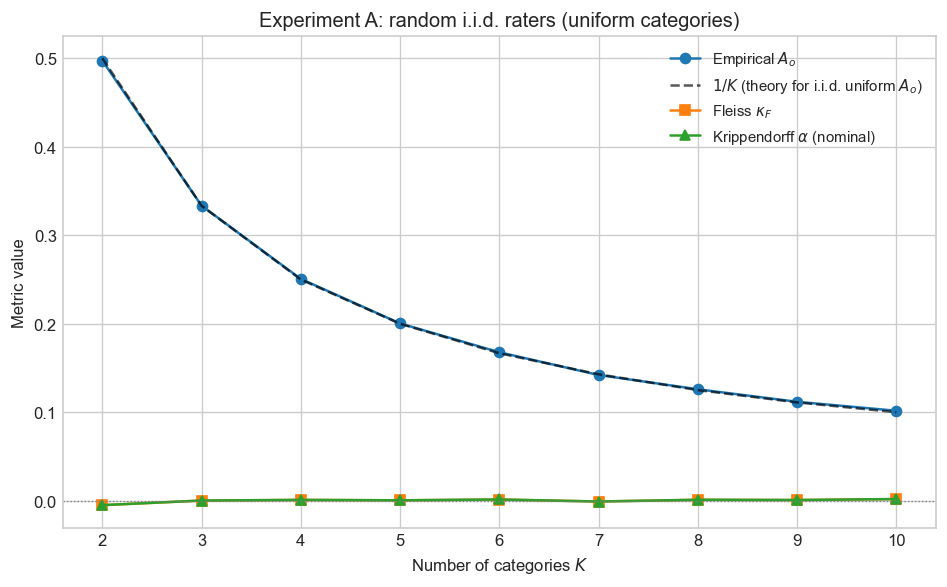
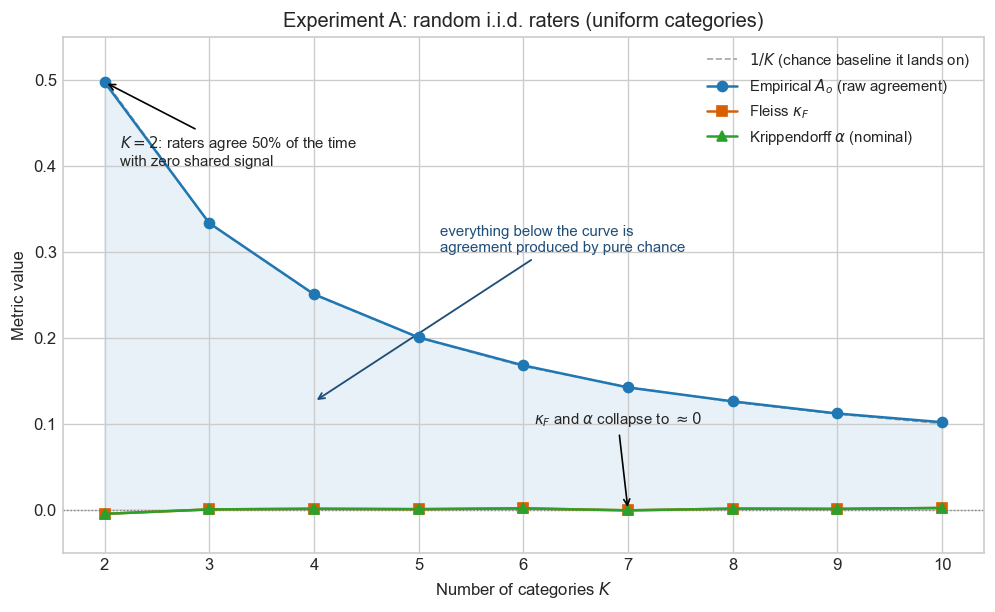
fix(figures): make Experiment A and D plots tell their story
Exp A shades the chance-agreement region and demotes 1/K to a reference;
Exp D adds a complete-case-deletion curve and a retained-items axis so the
alpha-vs-Fleiss contrast under MCAR missingness is visible.

diff --git a/scripts/experiment_d_missing.py b/scripts/experiment_d_missing.py
@@ -1,5 +1,15 @@
 #!/usr/bin/env python3
-"""Experiment D — missing data: Fleiss vs Krippendorff (Phase 4)."""
+"""Experiment D — missing data: Fleiss vs Krippendorff (Phase 4).
+
+Three curves make the contrast explicit under MCAR missingness:
+
+* Krippendorff ``alpha`` — uses every pairable judgment, stays stable.
+* Fleiss ``kappa`` on the **full** matrix — defined only at 0% missing, then NaN.
+* Fleiss ``kappa`` with **complete-case deletion** — the naive workaround: drop any
+  item with a missing cell, then run Fleiss on what remains. Under MCAR the mean is
+  ~unbiased, but the retained sample collapses like ``(1 - rate) ** n_raters`` and the
+  error bars blow up. A twin axis shows the shrinking share of items kept.
+"""
 
 from __future__ import annotations
 
@@ -24,6 +34,20 @@ BASE_SEED = 800
 MISSING_RATES = [0.0, 0.10, 0.20, 0.30, 0.40, 0.50]
 N_SEEDS = 10  # number of seeds for confidence intervals
 
+ALPHA_COLOR = "#1f77b4"
+FLEISS_COLOR = "#d95f02"
+DELETION_COLOR = "#2ca02c"
+RETAINED_COLOR = "#7f7f7f"
+
+
+def fleiss_complete_case(arr: np.ndarray) -> tuple[float, float]:
+    """Fleiss on complete rows only. Returns (kappa, retained_fraction)."""
+    complete = arr[~np.isnan(arr).any(axis=1)]
+    retained = complete.shape[0] / arr.shape[0]
+    if complete.shape[0] < 2:
+        return float("nan"), retained
+    return fleiss_kappa_or_nan(pd.DataFrame(complete)), retained
+
 
 def main() -> None:
     apply_plot_style()
@@ -39,9 +63,10 @@ def main() -> None:
     )
     base = gen.generate().to_numpy(dtype=float)
 
-    # Collect alpha across multiple seeds per missing rate
     alpha_runs = np.zeros((len(MISSING_RATES), N_SEEDS))
-    fleiss_vals: list[float] = []
+    deletion_runs = np.full((len(MISSING_RATES), N_SEEDS), np.nan)
+    retained_runs = np.zeros((len(MISSING_RATES), N_SEEDS))
+    fleiss_full: list[float] = []
 
     for idx, rate in enumerate(MISSING_RATES):
         for s in range(N_SEEDS):
@@ -52,52 +77,129 @@ def main() -> None:
                 arr[miss] = np.nan
             df = pd.DataFrame(arr)
             alpha_runs[idx, s] = krippendorff_alpha(df, level_of_measurement="nominal")
-        # Fleiss: use first seed only (it's NaN for any missing rate > 0 anyway)
+            deletion_runs[idx, s], retained_runs[idx, s] = fleiss_complete_case(arr)
+        # Fleiss on the full matrix: NaN as soon as any cell is missing.
         rng0 = np.random.default_rng(BASE_SEED + 11 + idx * 97)
         arr0 = base.copy()
         if rate > 0:
-            miss0 = rng0.random(arr0.shape) < rate
-            arr0[miss0] = np.nan
-        fleiss_vals.append(fleiss_kappa_or_nan(pd.DataFrame(arr0)))
+            arr0[rng0.random(arr0.shape) < rate] = np.nan
+        fleiss_full.append(fleiss_kappa_or_nan(pd.DataFrame(arr0)))
 
     alpha_mean = alpha_runs.mean(axis=1)
     alpha_std = alpha_runs.std(axis=1)
+    deletion_mean = np.nanmean(deletion_runs, axis=1)
+    deletion_std = np.nanstd(deletion_runs, axis=1)
+    retained_mean = retained_runs.mean(axis=1)
 
-    fig, ax = plt.subplots(figsize=(8, 5), dpi=120)
     x_pct = [int(round(100 * r)) for r in MISSING_RATES]
+    fig, ax = plt.subplots(figsize=(8.4, 5.2), dpi=120)
+
+    # --- alpha: the stable hero, uses all pairable data --------------------
     ax.errorbar(
         x_pct,
         alpha_mean,
         yerr=alpha_std,
         fmt="o-",
-        color="#1f77b4",
+        color=ALPHA_COLOR,
         capsize=4,
         capthick=1.5,
-        label=r"Krippendorff $\alpha$ (mean $\pm$ 1 SD, 10 seeds)",
+        zorder=5,
+        label=r"Krippendorff $\alpha$ — all pairable data (mean $\pm$ 1 SD)",
     )
-    # Fleiss: plot valid points, leave gaps for nan
-    kf_y = np.array(fleiss_vals, dtype=float)
-    ax.plot(
+
+    # --- Fleiss, complete-case deletion: unbiased but exploding variance ---
+    ax.errorbar(
         x_pct,
-        kf_y,
-        "s--",
-        color="#d95f02",
-        label=r"Fleiss $\kappa_F$ (complete matrix only; else NaN)",
+        deletion_mean,
+        yerr=deletion_std,
+        fmt="^--",
+        color=DELETION_COLOR,
+        capsize=4,
+        capthick=1.5,
+        zorder=4,
+        label=r"Fleiss $\kappa_F$ — complete-case deletion (mean $\pm$ 1 SD)",
     )
+
+    # --- Fleiss on the full matrix: one valid point, then undefined --------
+    ax.plot(
+        x_pct[0],
+        fleiss_full[0],
+        "s",
+        color=FLEISS_COLOR,
+        markersize=9,
+        zorder=6,
+        label=r"Fleiss $\kappa_F$ — full matrix (defined only at 0% missing)",
+    )
+    y_undef = 0.05
+    ax.scatter(
+        x_pct[1:],
+        [y_undef] * (len(x_pct) - 1),
+        marker="x",
+        s=70,
+        color=FLEISS_COLOR,
+        linewidths=2,
+        zorder=6,
+    )
+    ax.annotate(
+        "Fleiss on the full matrix is undefined\nas soon as any cell is missing (NaN)",
+        xy=(x_pct[1], y_undef),
+        xytext=(16, 0.235),
+        fontsize=8.5,
+        color=FLEISS_COLOR,
+        arrowprops=dict(arrowstyle="->", color=FLEISS_COLOR, lw=1.1),
+    )
+
     ax.set_xlabel("MCAR missing rate (% of cells)")
     ax.set_ylabel("Coefficient value")
     ax.set_title("Experiment D: robustness to missing annotations")
-    ax.legend(loc="best", fontsize=9)
     ax.set_xticks(x_pct)
-    ax.set_ylim(0.0, max(alpha_mean) + 0.15)
+    ax.set_ylim(0.0, 0.8)
+
+    # --- twin axis: share of items retained by complete-case deletion ------
+    ax2 = ax.twinx()
+    ax2.plot(
+        x_pct,
+        100 * retained_mean,
+        ":",
+        color=RETAINED_COLOR,
+        linewidth=1.6,
+        label="Items retained by deletion (right axis)",
+    )
+    ax2.set_ylabel("% of items kept (complete-case)", color=RETAINED_COLOR)
+    ax2.tick_params(axis="y", labelcolor=RETAINED_COLOR)
+    ax2.set_ylim(0, 105)
+    ax2.grid(False)
+    ax2.annotate(
+        f"only {100 * retained_mean[-1]:.0f}% of items survive at 50% missing",
+        xy=(x_pct[-1], 100 * retained_mean[-1]),
+        xytext=(-205, 40),
+        textcoords="offset points",
+        fontsize=8.5,
+        color=RETAINED_COLOR,
+        arrowprops=dict(arrowstyle="->", color=RETAINED_COLOR, lw=1.1),
+    )
+
+    # merged legend, parked in the empty upper band (curves sit near 0.60)
+    lines1, labels1 = ax.get_legend_handles_labels()
+    lines2, labels2 = ax2.get_legend_handles_labels()
+    ax.legend(
+        lines1 + lines2, labels1 + labels2, loc="upper center", fontsize=8.0,
+        framealpha=0.92,
+    )
+
     fig.tight_layout()
     out = ROOT / "figures" / "exp_d_missing_robustness.png"
     fig.savefig(out, bbox_inches="tight")
     plt.close(fig)
     print(f"Wrote {out}")
-    for idx, (r, k) in enumerate(zip(MISSING_RATES, fleiss_vals, strict=True)):
-        ks = "nan" if np.isnan(k) else f"{k:.4f}"
-        print(f"  missing={r:.0%}: alpha={alpha_mean[idx]:.4f} (±{alpha_std[idx]:.4f}), fleiss={ks}")
+    for idx, r in enumerate(MISSING_RATES):
+        ks = "nan" if np.isnan(fleiss_full[idx]) else f"{fleiss_full[idx]:.4f}"
+        print(
+            f"  missing={r:.0%}: alpha={alpha_mean[idx]:.4f} (±{alpha_std[idx]:.4f}), "
+            f"fleiss_full={ks}, "
+            f"fleiss_deletion={deletion_mean[idx]:.4f} (±{deletion_std[idx]:.4f}), "
+            f"retained={retained_mean[idx]:.1%}"
+        )
 
 
 if __name__ == "__main__":

diff --git a/scripts/experiment_a_random.py b/scripts/experiment_a_random.py
@@ -59,17 +59,56 @@ def main() -> None:
     if abs(alpha_list[i3]) >= TOL:
         raise SystemExit(f"alpha for K=3 out of tolerance: {alpha_list[i3]}")
 
-    fig, ax = plt.subplots(figsize=(8, 5), dpi=120)
-    ax.plot(ks, ao_list, "o-", label=r"Empirical $A_o$")
-    ax.plot(ks, one_over_k, "k--", alpha=0.65, label=r"$1/K$ (theory for i.i.d. uniform $A_o$)")
-    ax.plot(ks, kf_list, "s-", label=r"Fleiss $\kappa_F$")
-    ax.plot(ks, alpha_list, "^-", label=r"Krippendorff $\alpha$ (nominal)")
+    fig, ax = plt.subplots(figsize=(8.4, 5.2), dpi=120)
+
+    # Shade the whole story: the gap between raw agreement and zero is agreement
+    # that is *pure chance* — no shared signal produced any of it.
+    ax.fill_between(
+        ks, 0.0, ao_list, color="#1f77b4", alpha=0.10, zorder=0,
+    )
+    ax.annotate(
+        "everything below the curve is\nagreement produced by pure chance",
+        xy=(4, ao_list[2] / 2),
+        xytext=(5.2, 0.30),
+        fontsize=9,
+        color="#1f4e79",
+        arrowprops=dict(arrowstyle="->", color="#1f4e79", lw=1.1),
+    )
+
+    # Empirical A_o is the star; 1/K is a faint reference it lands exactly on.
+    ax.plot(ks, one_over_k, color="gray", linestyle="--", linewidth=1.0, alpha=0.7,
+            zorder=1, label=r"$1/K$ (chance baseline it lands on)")
+    ax.plot(ks, ao_list, "o-", color="#1f77b4", zorder=3,
+            label=r"Empirical $A_o$ (raw agreement)")
+
+    # Fleiss and alpha coincide near zero by design — both see through the chance.
+    ax.plot(ks, kf_list, "s-", color="#d95f02", zorder=3, label=r"Fleiss $\kappa_F$")
+    ax.plot(ks, alpha_list, "^-", color="#2ca02c", zorder=3,
+            label=r"Krippendorff $\alpha$ (nominal)")
     ax.axhline(0.0, color="gray", linewidth=0.8, linestyle=":")
+
+    # Call out the two ends of the argument.
+    ax.annotate(
+        r"$K=2$: raters agree 50% of the time" + "\nwith zero shared signal",
+        xy=(2, ao_list[0]),
+        xytext=(2.15, 0.40),
+        fontsize=9,
+        arrowprops=dict(arrowstyle="->", lw=1.0),
+    )
+    ax.annotate(
+        r"$\kappa_F$ and $\alpha$ collapse to $\approx 0$",
+        xy=(7, kf_list[5]),
+        xytext=(6.1, 0.10),
+        fontsize=9,
+        arrowprops=dict(arrowstyle="->", lw=1.0),
+    )
+
     ax.set_xlabel("Number of categories $K$")
     ax.set_ylabel("Metric value")
     ax.set_title("Experiment A: random i.i.d. raters (uniform categories)")
     ax.set_xticks(ks)
-    ax.legend(loc="best", fontsize=9)
+    ax.set_ylim(-0.05, 0.55)
+    ax.legend(loc="upper right", fontsize=9)
     fig.tight_layout()
     out = ROOT / "figures" / "exp_a_random_metrics.png"
     out.parent.mkdir(parents=True, exist_ok=True)
